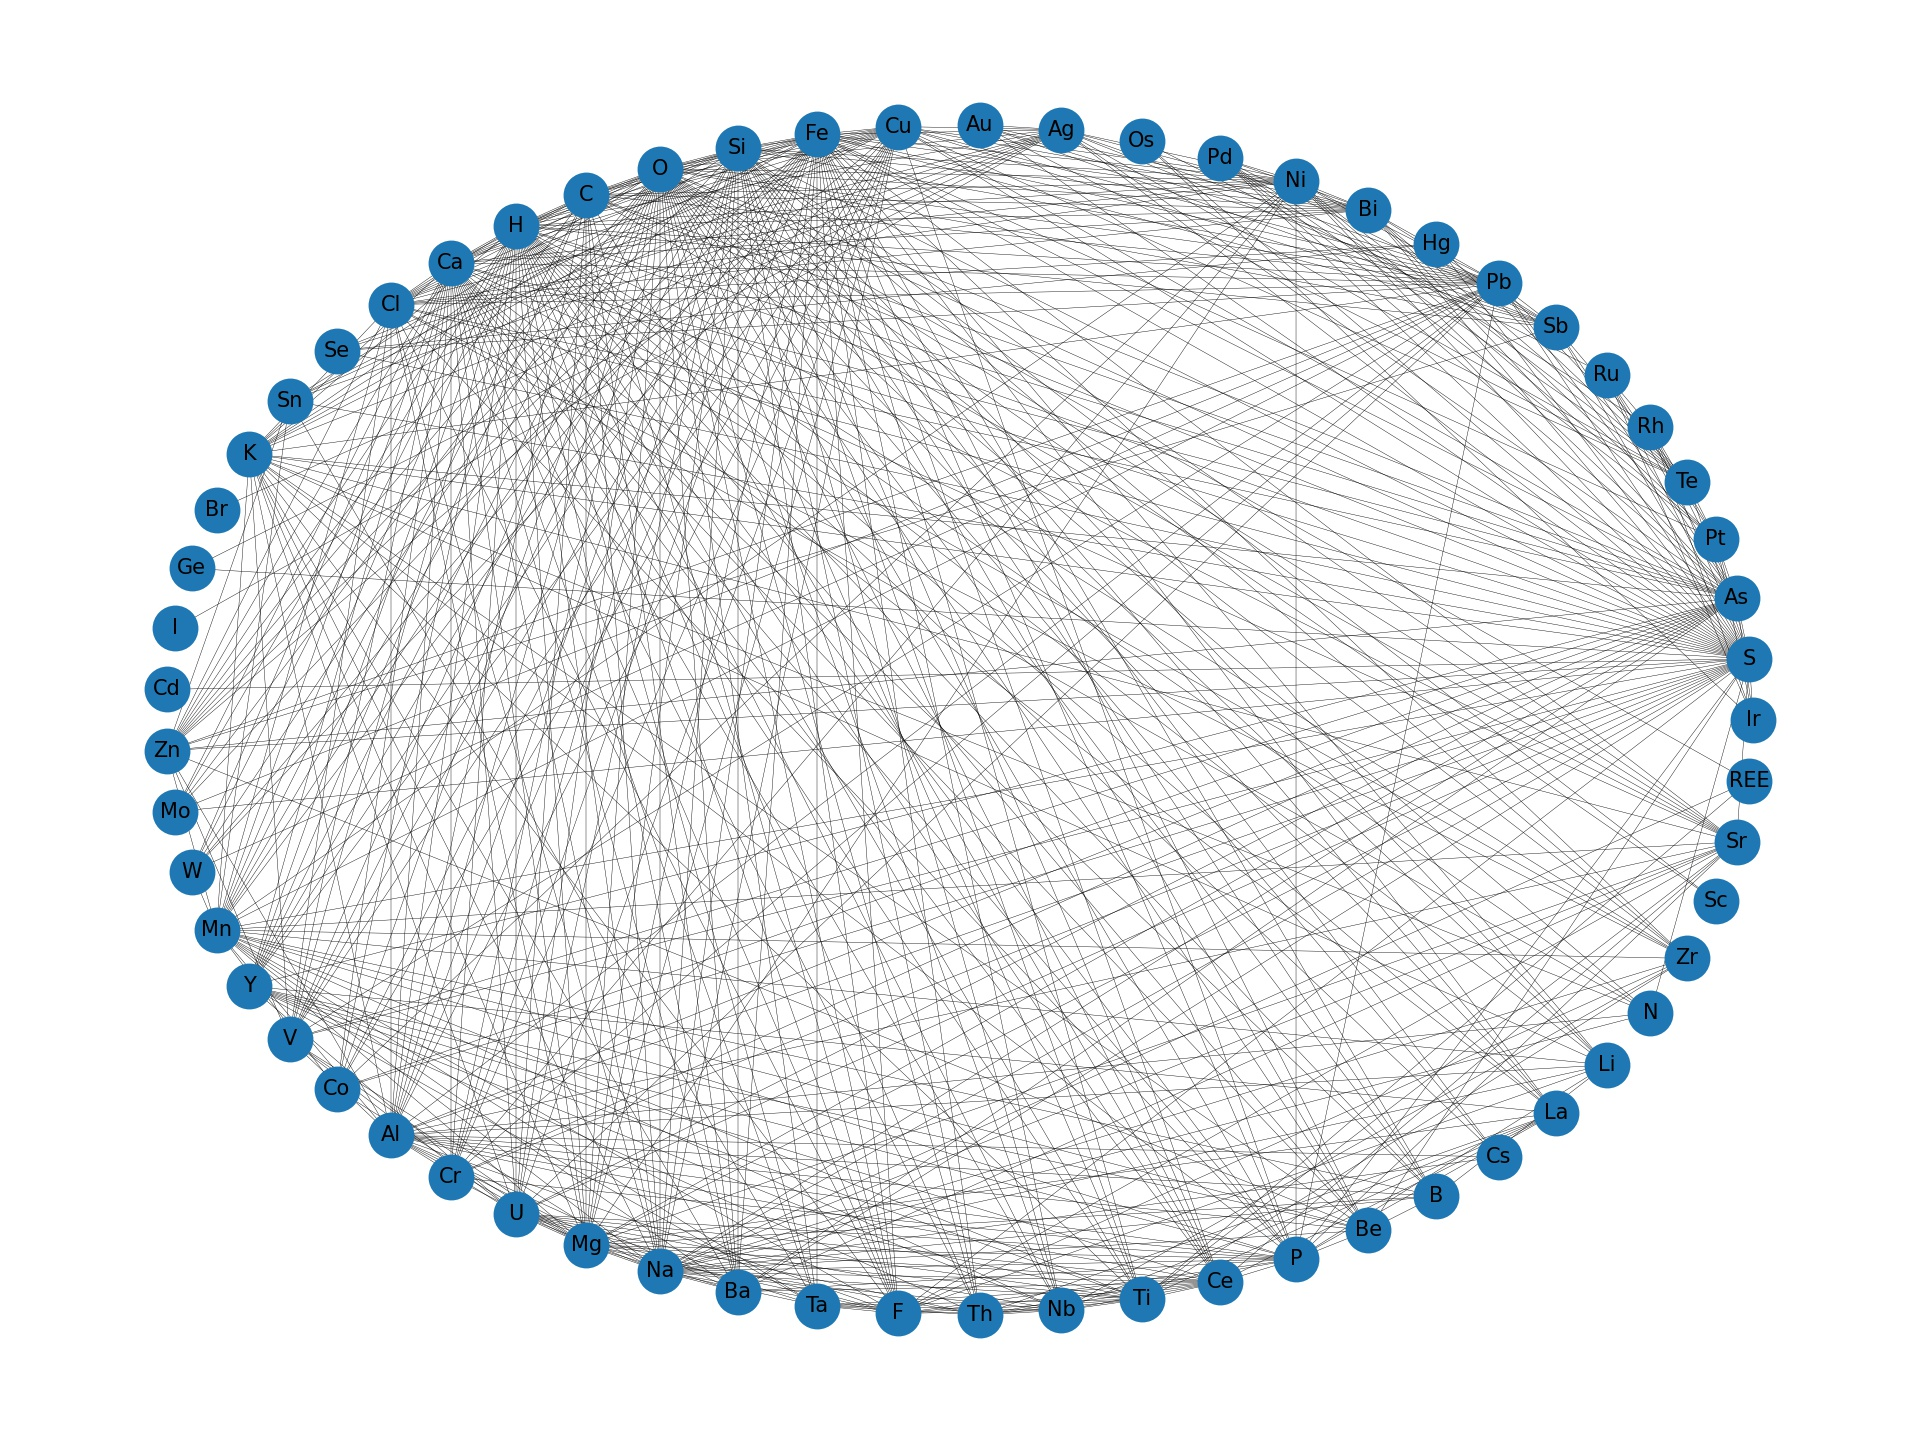
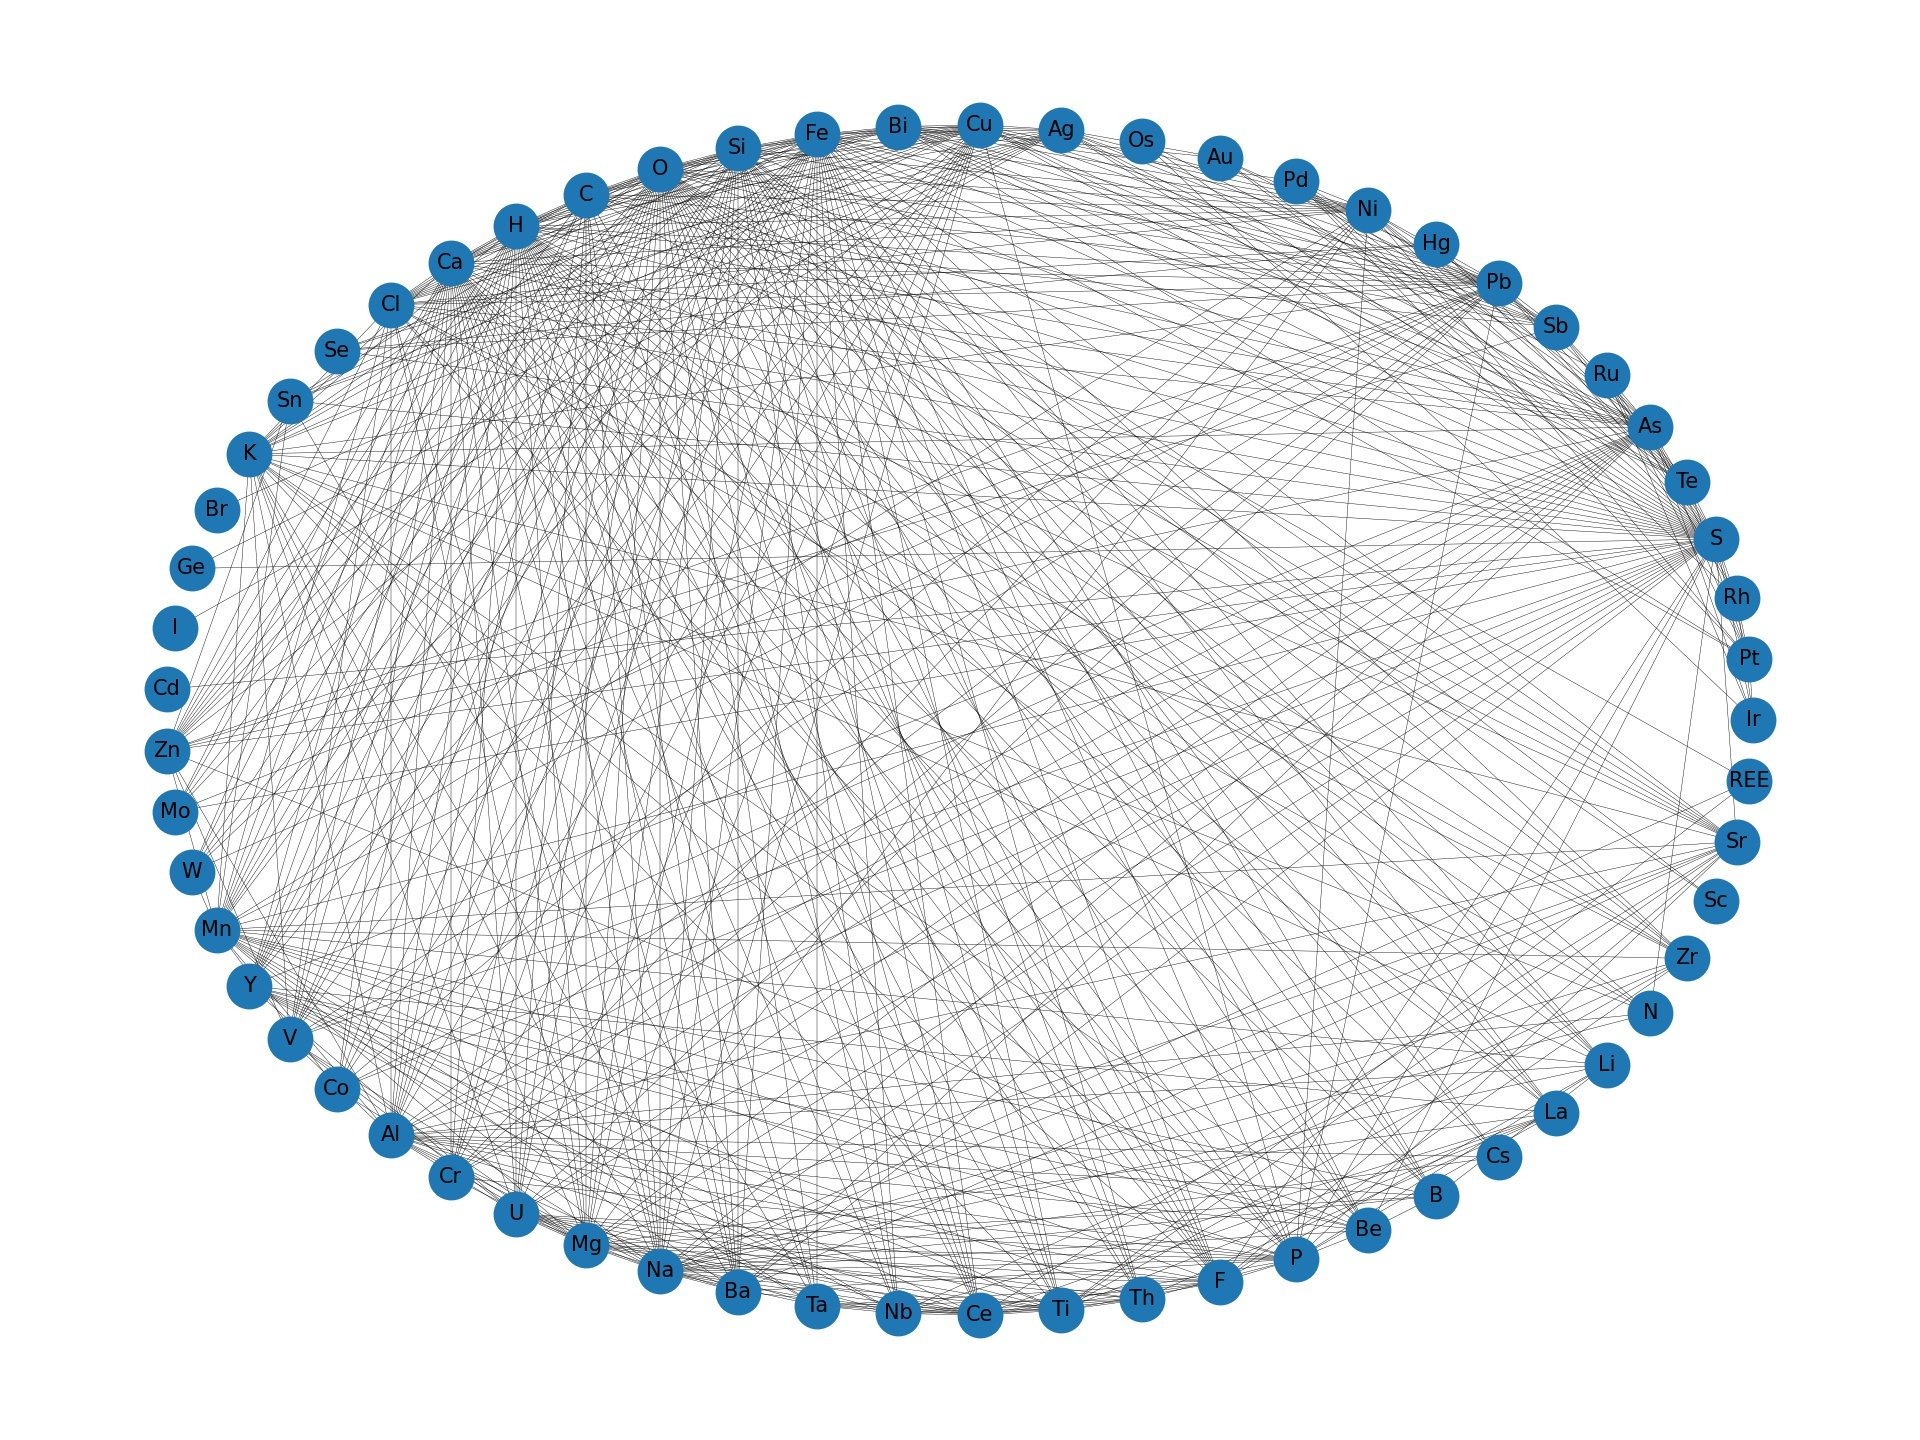
added spring networks

diff --git a/main/compare_chemistry.py b/main/compare_chemistry.py
@@ -266,7 +266,7 @@ rr_el_vector = rr_el_vector.loc[rr_el_vector[0] != rr_el_vector[1]]
 
 # RR
 r_el_vector = r.Formula.str.extractall('(REE|[A-Z][a-z]?)').droplevel(1).reset_index().drop_duplicates(subset=['index', 0]).set_index('index')
-r_el_vector[1] = pd.DataFrame(rr.Formula.str.extractall('(REE|[A-Z][a-z]?)').groupby(level=0)[0].apply(lambda x: list(set(x))))[0]
+r_el_vector[1] = pd.DataFrame(r.Formula.str.extractall('(REE|[A-Z][a-z]?)').groupby(level=0)[0].apply(lambda x: list(set(x))))[0]
 r_el_vector = r_el_vector.explode(1)
 r_el_vector = r_el_vector.loc[r_el_vector[0] != r_el_vector[1]]
 
@@ -305,29 +305,43 @@ cooccurrence_size.sort_values(0, inplace=True, ascending=False)
 cooccurrence_size = cooccurrence_re.sum()
 cooccurrence_size.sort_values(0, inplace=True, ascending=False)
 
-# add heat maps
-sns.set_theme(style="whitegrid")
-temp = sns.heatmap(cooccurrence_re_true_norm, linewidths=0.1)
-temp.set_xticks(range(len(cooccurrence_re_true_norm))) # <--- set the ticks first
-temp.set_xticklabels(cooccurrence_re_true_norm.columns)
-temp.tick_params(labelsize=2)
-temp.set_xlabel(None)
-temp.set_ylabel(None)
-plt.savefig(f"figures/chemistry/cooccurrence_tre.jpeg", dpi=300, format='jpeg')
-plt.close()
-
 # calculate unique cooccurrences
 
 re_true_el_vector.drop_duplicates(ignore_index=True).groupby(0).count().sort_values(1, ascending=False)[:10]
 
-# create a network graph
+# create network graphs
 
+## Circle graph
 G = nx.from_pandas_edgelist(u_el_vector.drop_duplicates(ignore_index=True).join(elements, on=0, how='left')[[0, 1, 'crust_crc_handbook',]].sort_values('crust_crc_handbook'), source=0, target=1)
 
 nx.draw_circular(G, with_labels=True, node_size=100, width=0.1, font_size=5)
 plt.savefig(f"figures/chemistry/u_elements_circular_network.jpeg", dpi=300, format='jpeg')
 plt.close()
 
+
+## Spring layout
+
+G = nx.from_pandas_edgelist(re_true_el_vector, source=0, target=1)
+degree_centrality = nx.centrality.degree_centrality(G)
+betweenness_centrality = nx.centrality.betweenness_centrality(G)
+pos = nx.spring_layout(G, iterations=15, seed=1721)
+
+node_size =  [v * 100 for v in degree_centrality.values()]
+node_color =  [v * 10 for v in betweenness_centrality.values()]
+nx.draw_networkx(G, pos=pos, node_color=node_color, node_size=node_size, width=0.15, font_size=5)
+plt.savefig(f"figures/chemistry/re_true_elements_spring_network.jpeg", dpi=300, format='jpeg')
+plt.close()
+
+## test the degree centrality
+(sorted(degree_centrality.items(), key=lambda item: item[1], reverse=True))[:10]
+(sorted(betweenness_centrality.items(), key=lambda item: item[1], reverse=True))[:10]
+
+
+## analyse specific elements
+minerals = re_true_el.loc[re_true_el['Elements'].isin(['As'])].index
+test = mr_data.loc[minerals]
+
+test.groupby('CLASS').size()
 
 # export to csv
 cooccurrence_re_true.to_csv('supplementary_data/cooc_re_true.csv', sep='\t')
